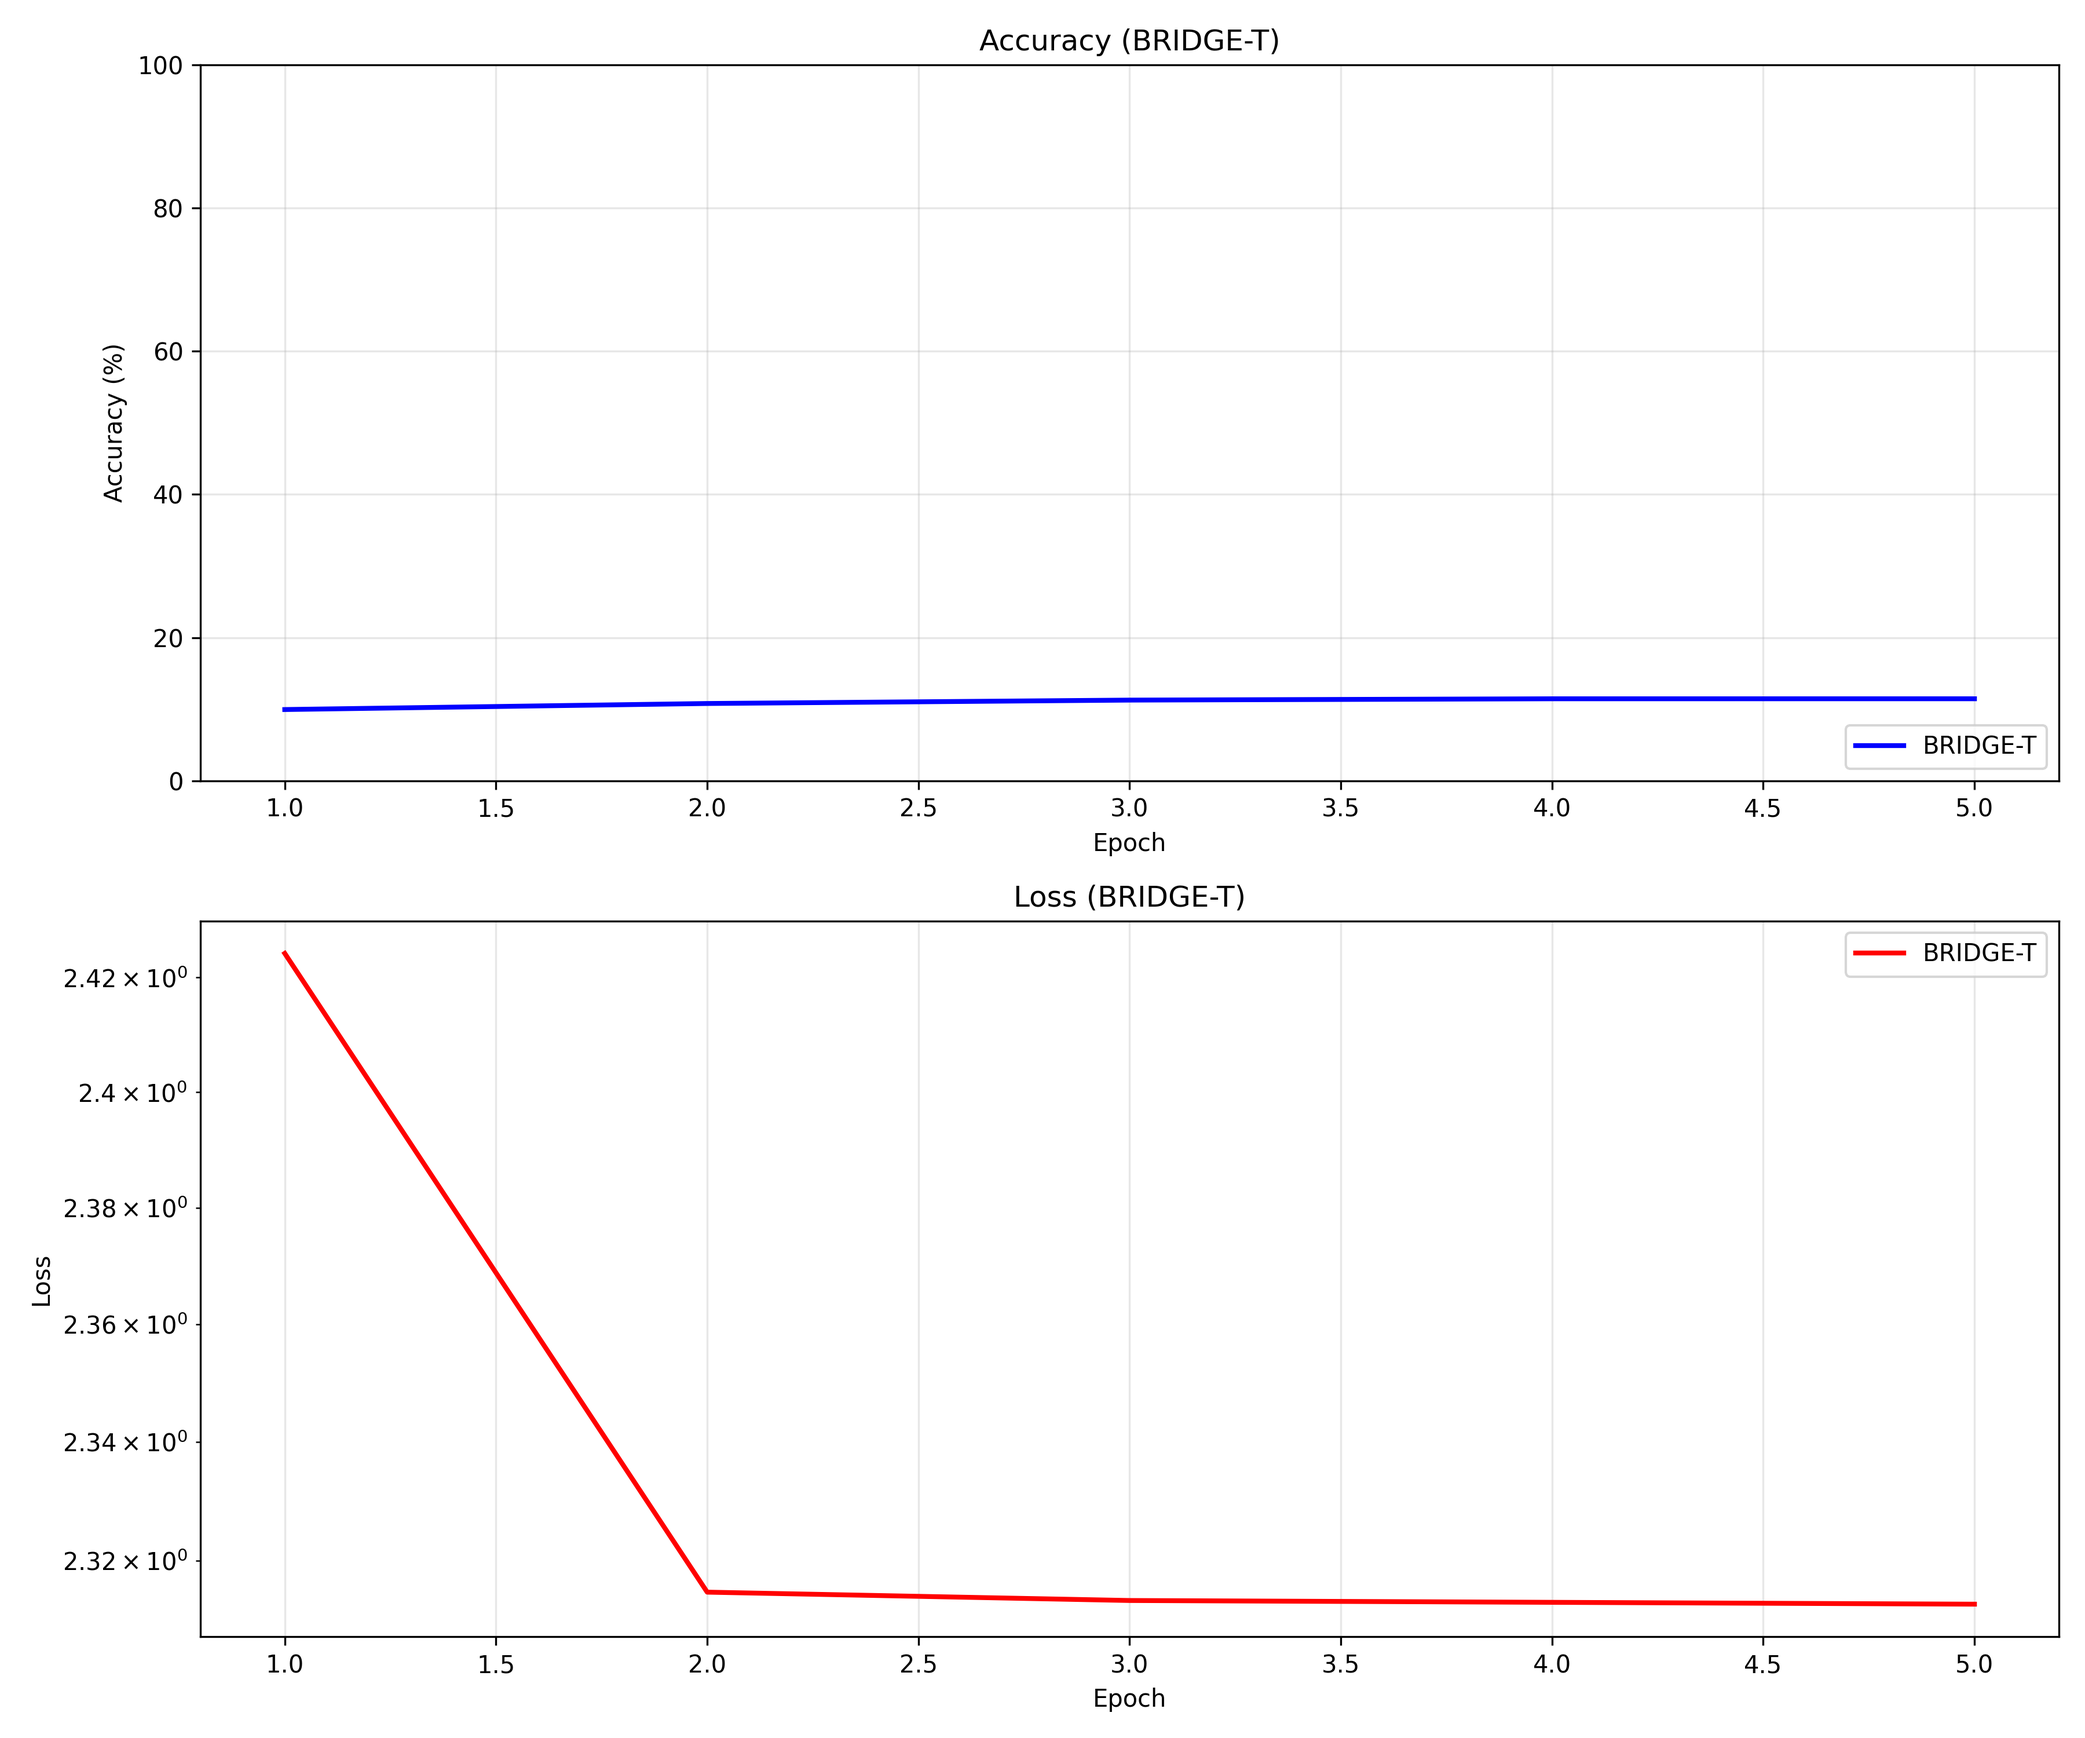
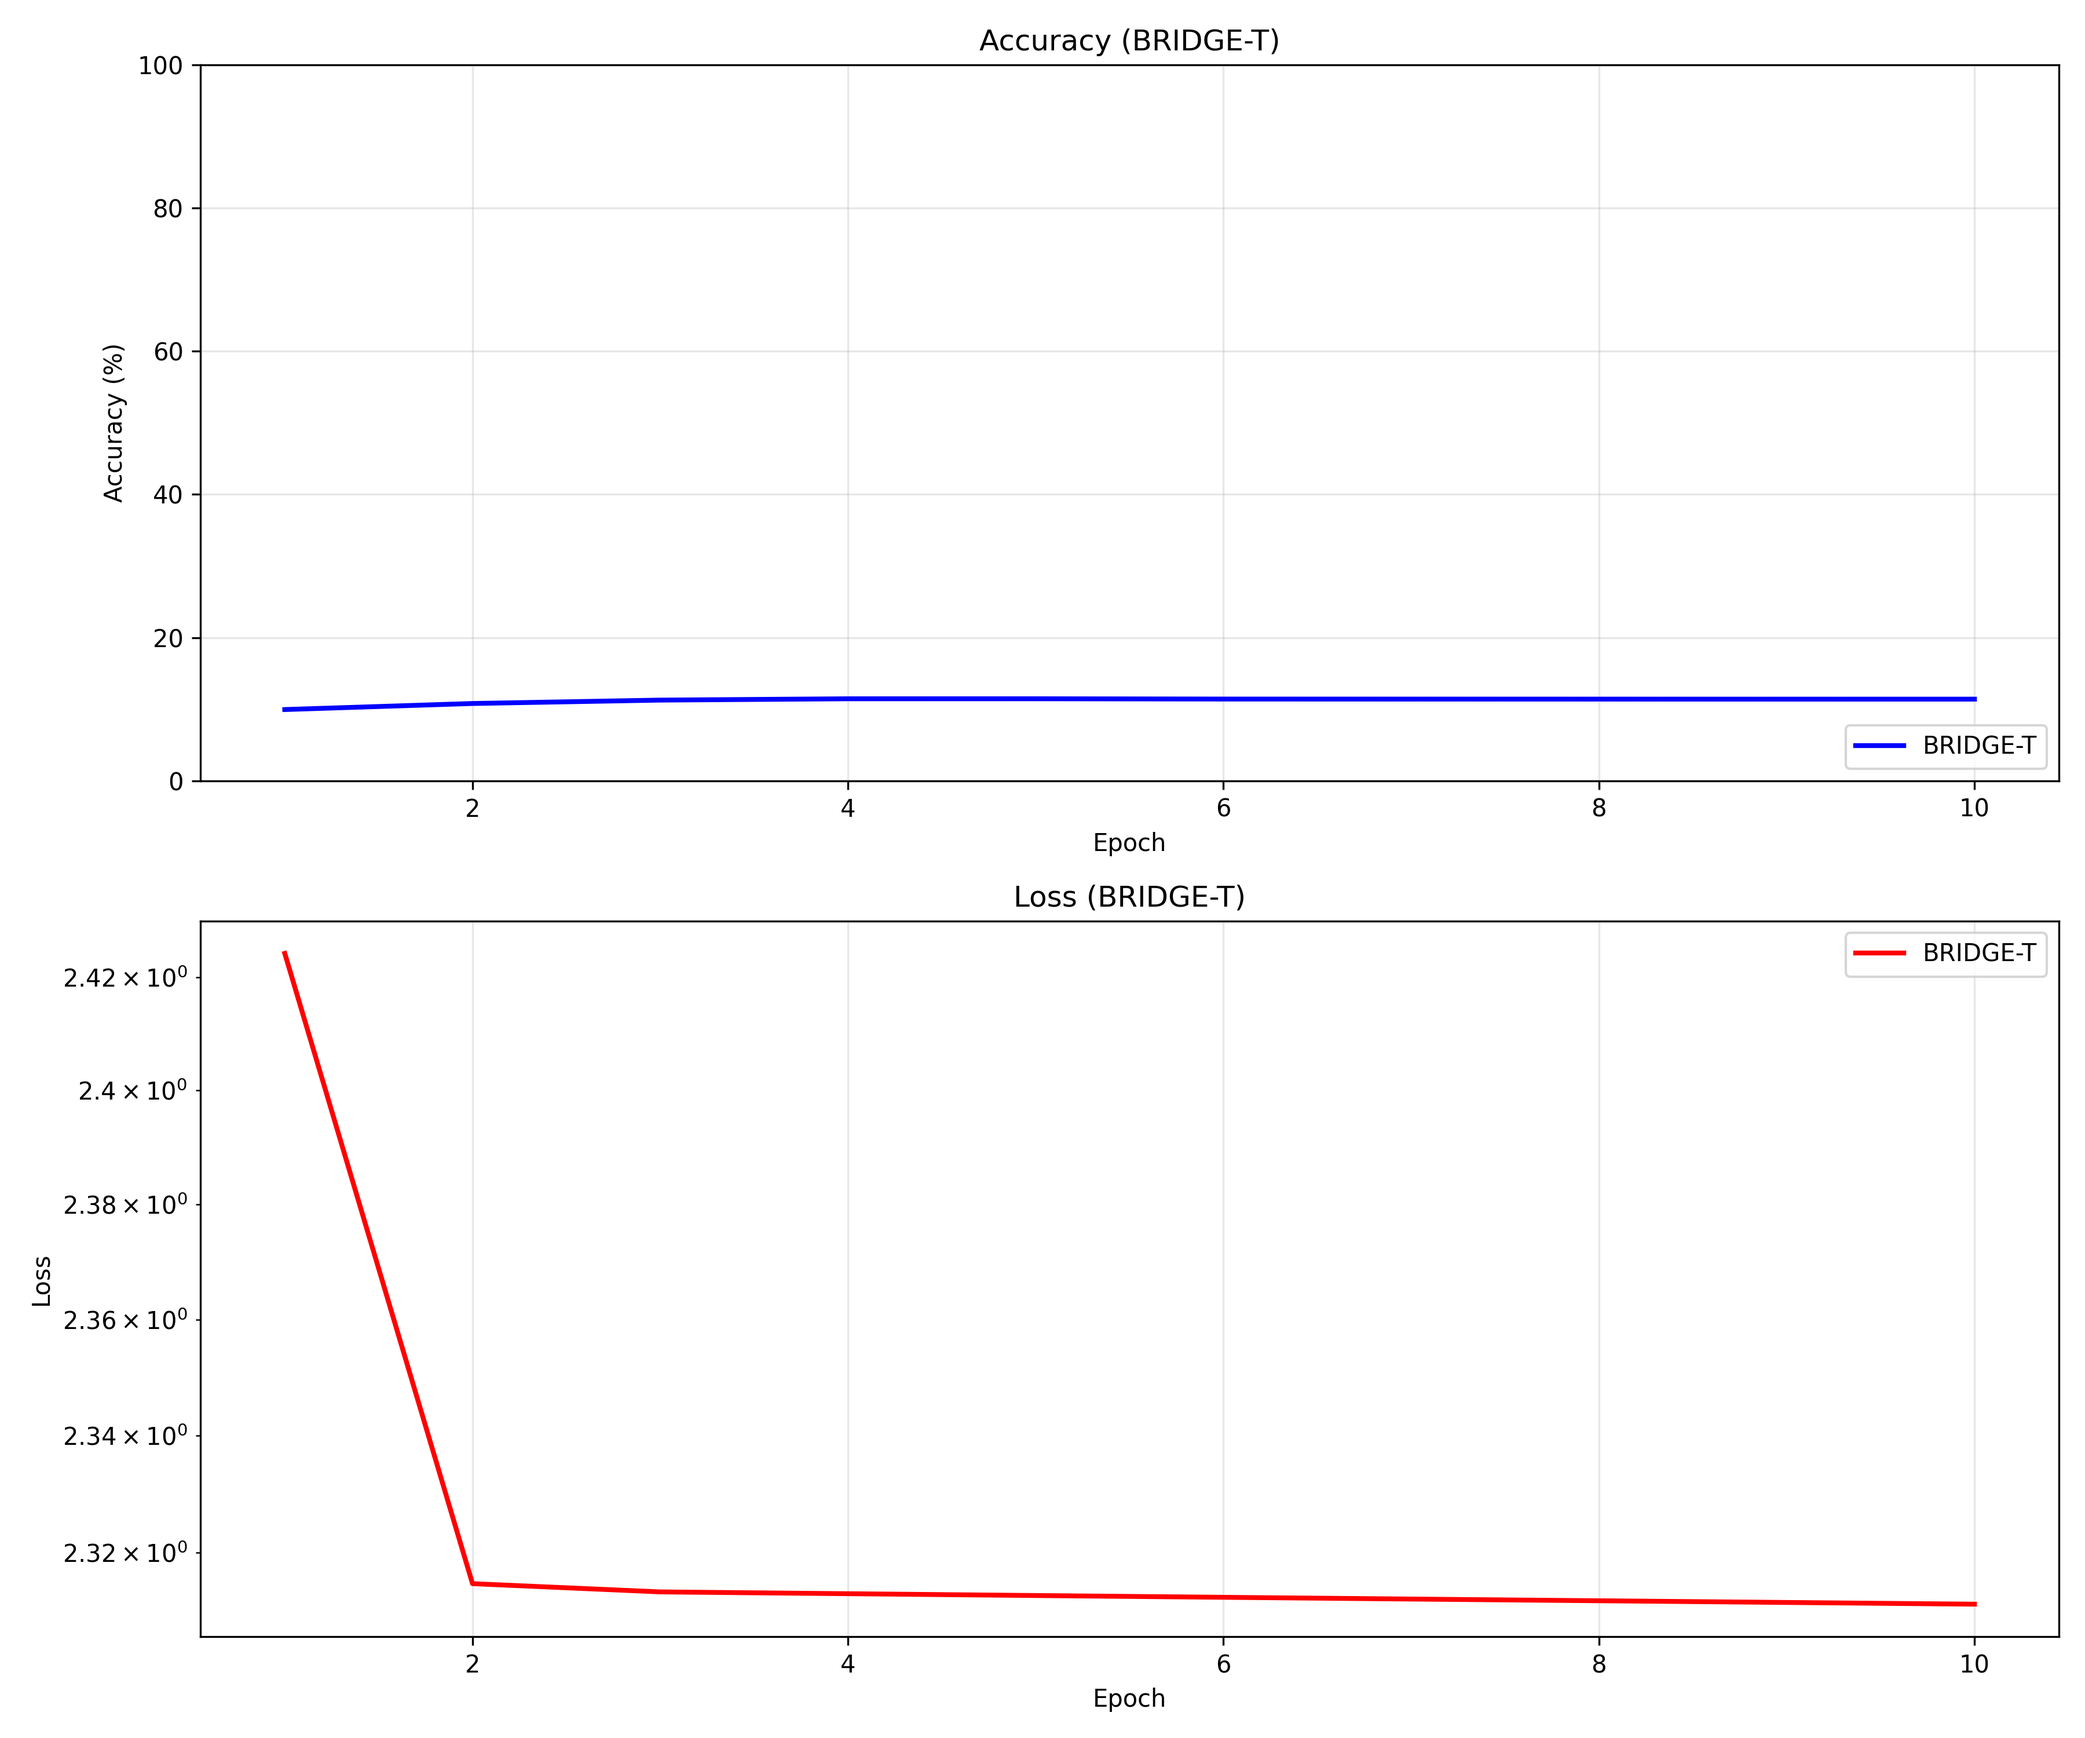
same initialization

diff --git a/models.py b/models.py
@@ -1,9 +1,17 @@
 import torch
 import torch.nn as nn
 
+
 class SimpleCNN(nn.Module):
-    def __init__(self):
+    def __init__(self, seed=42):
         super(SimpleCNN, self).__init__()
+
+        # Set the seed for reproducibility
+        torch.manual_seed(seed)
+        if torch.cuda.is_available():
+            torch.cuda.manual_seed(seed)
+            torch.cuda.manual_seed_all(seed)  # for multi-GPU
+
         self.conv1 = nn.Conv2d(1, 32, kernel_size=5)
         self.relu1 = nn.ReLU()
         self.pool1 = nn.MaxPool2d(kernel_size=2)
@@ -19,13 +27,10 @@ class SimpleCNN(nn.Module):
 
     def _initialize_weights(self):
         for m in self.modules():
-            if isinstance(m, nn.Conv2d):
+            if isinstance(m, (nn.Conv2d, nn.Linear)):
                 nn.init.kaiming_normal_(m.weight, mode='fan_out', nonlinearity='relu')
                 if m.bias is not None:
                     nn.init.constant_(m.bias, 0)
-            elif isinstance(m, nn.Linear):
-                nn.init.kaiming_uniform_(m.weight, mode='fan_in', nonlinearity='relu')
-                nn.init.constant_(m.bias, 0)
 
     def forward(self, x):
         x = self.pool1(self.relu1(self.conv1(x)))
